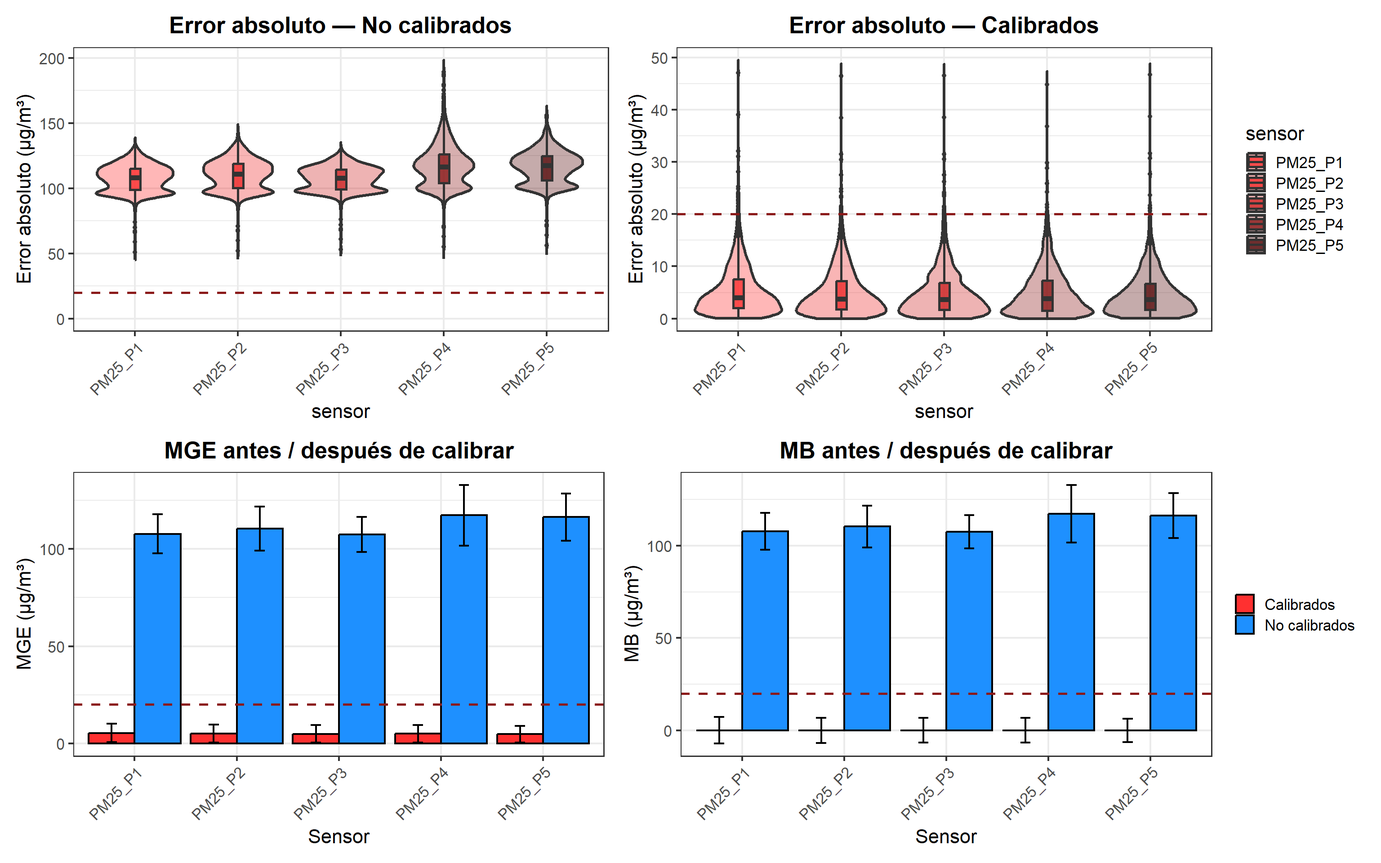
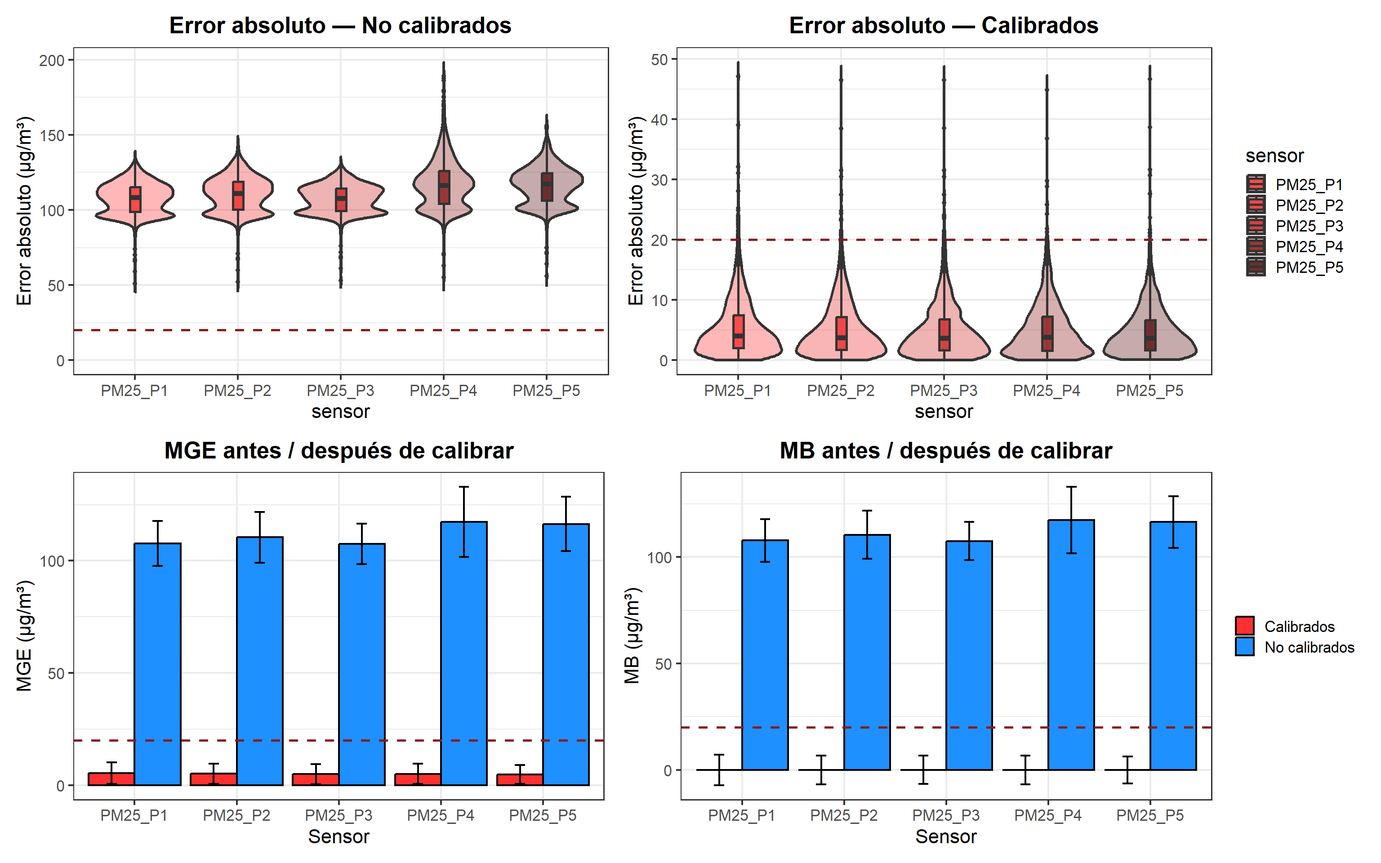
arreglar grafico

diff --git a/index.html b/index.html
@@ -127,7 +127,7 @@ pre > code.sourceCode > span > a:first-child::before { text-decoration: underlin
 
 <section id="sinca" class="level2">
 <h2 class="anchored" data-anchor-id="sinca">SINCA</h2>
-<p>El <strong>Sistema de Información Nacional de Calidad del Aire(SINCA)</strong> presenta con aproximadamente 12 estaciones de monitoreo en la ciudad, lo que limita la determinación espacial de los contaminantes y, por ende, la estimación de la exposición real de la población. <a href="https://sinca.mma.gob.cl/" class="uri">https://sinca.mma.gob.cl/</a>.</p>
+<p>El <strong>Sistema de Información Nacional de Calidad del Aire (SINCA)</strong> presenta aproximadamente 10 estaciones de monitoreo en la ciudad de Santiago de Chile , lo que limita la determinación espacial de los contaminantes y, por ende, la exposición real de la población. <a href="https://sinca.mma.gob.cl/" class="uri">https://sinca.mma.gob.cl/</a>.</p>
 </section>
 <section id="sensores-de-bajo-costo" class="level2">
 <h2 class="anchored" data-anchor-id="sensores-de-bajo-costo">Sensores de bajo costo</h2>
@@ -229,14 +229,7 @@ pre > code.sourceCode > span > a:first-child::before { text-decoration: underlin
 <span id="cb1-83"><a href="#cb1-83" aria-hidden="true" tabindex="-1"></a>    )</span>
 <span id="cb1-84"><a href="#cb1-84" aria-hidden="true" tabindex="-1"></a>  ) <span class="sc">+</span></span>
 <span id="cb1-85"><a href="#cb1-85" aria-hidden="true" tabindex="-1"></a>  <span class="fu">theme_bw</span>() <span class="sc">+</span></span>
-<span id="cb1-86"><a href="#cb1-86" aria-hidden="true" tabindex="-1"></a>  <span class="fu">theme</span>(</span>
-<span id="cb1-87"><a href="#cb1-87" aria-hidden="true" tabindex="-1"></a>    <span class="at">legend.position =</span> <span class="st">"right"</span>,</span>
-<span id="cb1-88"><a href="#cb1-88" aria-hidden="true" tabindex="-1"></a>    <span class="at">plot.title =</span> <span class="fu">element_text</span>(<span class="at">hjust =</span> <span class="fl">0.5</span>, <span class="at">face =</span> <span class="st">"bold"</span>),</span>
-<span id="cb1-89"><a href="#cb1-89" aria-hidden="true" tabindex="-1"></a>    <span class="at">strip.background =</span> <span class="fu">element_rect</span>(<span class="at">fill =</span> <span class="st">"grey90"</span>, <span class="at">color =</span> <span class="cn">NA</span>),</span>
-<span id="cb1-90"><a href="#cb1-90" aria-hidden="true" tabindex="-1"></a>    <span class="at">strip.text =</span> <span class="fu">element_text</span>(<span class="at">face =</span> <span class="st">"bold"</span>),</span>
-<span id="cb1-91"><a href="#cb1-91" aria-hidden="true" tabindex="-1"></a>    <span class="at">axis.text.x =</span> <span class="fu">element_text</span>(<span class="at">angle =</span> <span class="dv">0</span>, <span class="at">hjust =</span> <span class="fl">0.5</span>)</span>
-<span id="cb1-92"><a href="#cb1-92" aria-hidden="true" tabindex="-1"></a>  ) <span class="sc">+</span></span>
-<span id="cb1-93"><a href="#cb1-93" aria-hidden="true" tabindex="-1"></a>  <span class="fu">transition_reveal</span>(<span class="at">along =</span> hour)</span></code><button title="Copiar al portapapeles" class="code-copy-button"><i class="bi"></i></button></pre></div>
+<span id="cb1-86"><a href="#cb1-86" aria-hidden="true" tabindex="-1"></a>  <span class="fu">theme</span>(<span class="at">legend.position =</span> <span class="st">"right"</span>)</span></code><button title="Copiar al portapapeles" class="code-copy-button"><i class="bi"></i></button></pre></div>
 </details>
 </div>
 <div class="cell">
@@ -252,7 +245,7 @@ pre > code.sourceCode > span > a:first-child::before { text-decoration: underlin
 </div>
 </div>
 </div>
-<p>Se muestra que existe un defase entre los valores de concentración de los sensores de bajo costo (P1, P2, P3, P4, P5) en compración con las concentraciones de PM<sub>2.5</sub> del SINCA</p>
+<p>Se muestra que existe un defase entre los valores de concentración de los sensores de bajo costo (P1, P2, P3, P4, P5) en compración con las concentraciones de PM<sub>2.5</sub> del SINCA.</p>
 </section>
 </section>
 <section id="calibración-de-los-sensores-plantower" class="level2">
@@ -300,7 +293,7 @@ pre > code.sourceCode > span > a:first-child::before { text-decoration: underlin
 </section>
 <section id="análisis-de-errores" class="level2">
 <h2 class="anchored" data-anchor-id="análisis-de-errores">Análisis de errores</h2>
-<p>Para determinar la efectividad de la calibracion de los sensores de bajo costo se realiza un analisis de errores. en primer lugar, se evalua la distribucion de los errore absolutos para cada observacion; seguido de un analisis de las metricas de los errores (MB y MGE). En este caso se verifico que despues de la calibracion los valores del error estuvieran por debajo de 20 µg/m³.</p>
+<p>Para determinar la efectividad de la calibracion de los sensores de bajo costo se realiza un análisis de errores. En primer lugar, se evalua la distribución de los errore absolutos para cada observación; seguido de un analisis de las metricas de los errores (MB y MGE). En este caso se verificó que despues de la calibración los valores del error estuvieran por debajo de 20 µg/m³.</p>
 <div class="cell">
 <details class="code-fold">
 <summary>Mostrar código</summary>
@@ -319,59 +312,73 @@ pre > code.sourceCode > span > a:first-child::before { text-decoration: underlin
 <span id="cb4-13"><a href="#cb4-13" aria-hidden="true" tabindex="-1"></a></span>
 <span id="cb4-14"><a href="#cb4-14" aria-hidden="true" tabindex="-1"></a><span class="co"># Grafico de violín para errores no calibrados ----------------------------</span></span>
 <span id="cb4-15"><a href="#cb4-15" aria-hidden="true" tabindex="-1"></a></span>
-<span id="cb4-16"><a href="#cb4-16" aria-hidden="true" tabindex="-1"></a>violin_nocalibrado <span class="ot">&lt;-</span> <span class="fu">ggplot</span>(errores_no_calibrado ,</span>
-<span id="cb4-17"><a href="#cb4-17" aria-hidden="true" tabindex="-1"></a>                      <span class="fu">aes</span>(<span class="at">x =</span> sensor, <span class="at">y =</span> error_abs, <span class="at">fill =</span> sensor)) <span class="sc">+</span></span>
-<span id="cb4-18"><a href="#cb4-18" aria-hidden="true" tabindex="-1"></a>  <span class="fu">geom_violin</span>(<span class="at">trim =</span> <span class="cn">FALSE</span>, <span class="at">alpha =</span> <span class="fl">0.35</span>, <span class="at">linewidth =</span> <span class="fl">1.1</span>) <span class="sc">+</span> <span class="co"># No recorta extremo y especifica la transparencia</span></span>
-<span id="cb4-19"><a href="#cb4-19" aria-hidden="true" tabindex="-1"></a>  <span class="fu">geom_boxplot</span>(<span class="at">width =</span> <span class="fl">0.10</span>, <span class="at">alpha =</span> <span class="fl">0.8</span>, <span class="at">linewidth =</span> <span class="fl">1.0</span>, <span class="co">#Añadir box plot dentro del violin</span></span>
-<span id="cb4-20"><a href="#cb4-20" aria-hidden="true" tabindex="-1"></a>               <span class="at">outlier.size =</span> <span class="fl">1.5</span>) <span class="sc">+</span>   <span class="co"># Especifica el tamaño de los puntos outlier</span></span>
-<span id="cb4-21"><a href="#cb4-21" aria-hidden="true" tabindex="-1"></a>  <span class="fu">geom_hline</span>(<span class="at">yintercept =</span> <span class="dv">20</span>, <span class="at">linetype =</span> <span class="st">"dashed"</span>,  <span class="co"># Añade una linea horizontal en y=20</span></span>
-<span id="cb4-22"><a href="#cb4-22" aria-hidden="true" tabindex="-1"></a>             <span class="at">color =</span> <span class="st">"firebrick4"</span>, <span class="at">linewidth =</span> <span class="dv">1</span>) <span class="sc">+</span> <span class="co"># Selecciona el color de la linea</span></span>
-<span id="cb4-23"><a href="#cb4-23" aria-hidden="true" tabindex="-1"></a>  <span class="fu">scale_y_continuous</span>(<span class="at">limits =</span> <span class="fu">c</span>(<span class="dv">0</span>, <span class="cn">NA</span>)) <span class="sc">+</span>       <span class="co"># Establece que el valor minimo es 0 y sin max(Na)</span></span>
-<span id="cb4-24"><a href="#cb4-24" aria-hidden="true" tabindex="-1"></a>  <span class="fu">scale_fill_manual</span>(<span class="at">values =</span> <span class="fu">c</span>(                 <span class="co"># Seleccion de colores para cada grafico de violin</span></span>
-<span id="cb4-25"><a href="#cb4-25" aria-hidden="true" tabindex="-1"></a>    <span class="st">"PM25_P1"</span> <span class="ot">=</span> <span class="st">"firebrick1"</span>,</span>
-<span id="cb4-26"><a href="#cb4-26" aria-hidden="true" tabindex="-1"></a>    <span class="st">"PM25_P2"</span> <span class="ot">=</span> <span class="st">"firebrick2"</span>,</span>
-<span id="cb4-27"><a href="#cb4-27" aria-hidden="true" tabindex="-1"></a>    <span class="st">"PM25_P3"</span> <span class="ot">=</span> <span class="st">"firebrick3"</span>,</span>
-<span id="cb4-28"><a href="#cb4-28" aria-hidden="true" tabindex="-1"></a>    <span class="st">"PM25_P4"</span> <span class="ot">=</span> <span class="st">"firebrick4"</span>,</span>
-<span id="cb4-29"><a href="#cb4-29" aria-hidden="true" tabindex="-1"></a>    <span class="st">"PM25_P5"</span> <span class="ot">=</span> <span class="st">"#5A0F0F"</span></span>
-<span id="cb4-30"><a href="#cb4-30" aria-hidden="true" tabindex="-1"></a>  )) <span class="sc">+</span></span>
-<span id="cb4-31"><a href="#cb4-31" aria-hidden="true" tabindex="-1"></a>  <span class="fu">theme_bw</span>(<span class="at">base_size =</span> <span class="dv">16</span>) <span class="sc">+</span>                 <span class="co"># Tema blanco y negro con tamño de texto 16</span></span>
-<span id="cb4-32"><a href="#cb4-32" aria-hidden="true" tabindex="-1"></a>  <span class="fu">theme</span>(</span>
-<span id="cb4-33"><a href="#cb4-33" aria-hidden="true" tabindex="-1"></a>    <span class="at">plot.title =</span> <span class="fu">element_text</span>(<span class="at">face =</span> <span class="st">"bold"</span>, <span class="at">hjust =</span> <span class="fl">0.5</span>), <span class="co">#Título en negrita y centrado</span></span>
-<span id="cb4-34"><a href="#cb4-34" aria-hidden="true" tabindex="-1"></a>    <span class="at">axis.text.x =</span> <span class="fu">element_text</span>(<span class="at">angle =</span> <span class="dv">45</span>, <span class="at">hjust =</span> <span class="dv">1</span>) <span class="co"># Inclina el eje para evitar solapamientos</span></span>
-<span id="cb4-35"><a href="#cb4-35" aria-hidden="true" tabindex="-1"></a>  ) <span class="sc">+</span></span>
-<span id="cb4-36"><a href="#cb4-36" aria-hidden="true" tabindex="-1"></a>  <span class="fu">labs</span>(<span class="at">title =</span> <span class="st">"Error absoluto — No calibrados"</span>,</span>
-<span id="cb4-37"><a href="#cb4-37" aria-hidden="true" tabindex="-1"></a>       <span class="at">x =</span> <span class="st">"sensor"</span>, <span class="at">y =</span> <span class="st">"Error absoluto (µg/m³)"</span>,</span>
-<span id="cb4-38"><a href="#cb4-38" aria-hidden="true" tabindex="-1"></a>       <span class="at">fill =</span> <span class="st">"sensor"</span>)</span>
-<span id="cb4-39"><a href="#cb4-39" aria-hidden="true" tabindex="-1"></a></span>
-<span id="cb4-40"><a href="#cb4-40" aria-hidden="true" tabindex="-1"></a><span class="co"># Grafico de violín para errores calibrados ----------------------------</span></span>
-<span id="cb4-41"><a href="#cb4-41" aria-hidden="true" tabindex="-1"></a><span class="co"># Seleccionar datos -------------------------------------------------------</span></span>
-<span id="cb4-42"><a href="#cb4-42" aria-hidden="true" tabindex="-1"></a>errores_cal <span class="ot">&lt;-</span> errores_completo <span class="sc">%&gt;%</span> <span class="fu">filter</span>(Clasificacion <span class="sc">==</span> <span class="st">"Calibrados"</span>)</span>
-<span id="cb4-43"><a href="#cb4-43" aria-hidden="true" tabindex="-1"></a></span>
-<span id="cb4-44"><a href="#cb4-44" aria-hidden="true" tabindex="-1"></a><span class="co"># Grafico de violín para errores no calibrados ----------------------------</span></span>
-<span id="cb4-45"><a href="#cb4-45" aria-hidden="true" tabindex="-1"></a></span>
-<span id="cb4-46"><a href="#cb4-46" aria-hidden="true" tabindex="-1"></a>violin_calibrado <span class="ot">&lt;-</span> <span class="fu">ggplot</span>(errores_cal,</span>
-<span id="cb4-47"><a href="#cb4-47" aria-hidden="true" tabindex="-1"></a>                               <span class="fu">aes</span>(<span class="at">x =</span> sensor, <span class="at">y =</span> error_abs, <span class="at">fill =</span> sensor)) <span class="sc">+</span></span>
-<span id="cb4-48"><a href="#cb4-48" aria-hidden="true" tabindex="-1"></a>  <span class="fu">geom_violin</span>(<span class="at">trim =</span> <span class="cn">FALSE</span>, <span class="at">alpha =</span> <span class="fl">0.35</span>, <span class="at">linewidth =</span> <span class="fl">1.1</span>) <span class="sc">+</span> <span class="co"># No recorta extremo y especifica la transparencia</span></span>
-<span id="cb4-49"><a href="#cb4-49" aria-hidden="true" tabindex="-1"></a>  <span class="fu">geom_boxplot</span>(<span class="at">width =</span> <span class="fl">0.10</span>, <span class="at">alpha =</span> <span class="fl">0.8</span>, <span class="at">linewidth =</span> <span class="fl">1.0</span>, <span class="co">#Añadir box plot dentro del violin</span></span>
-<span id="cb4-50"><a href="#cb4-50" aria-hidden="true" tabindex="-1"></a>               <span class="at">outlier.size =</span> <span class="fl">1.5</span>) <span class="sc">+</span>   <span class="co"># Especifica el tamaño de los puntos outlier</span></span>
-<span id="cb4-51"><a href="#cb4-51" aria-hidden="true" tabindex="-1"></a>  <span class="fu">geom_hline</span>(<span class="at">yintercept =</span> <span class="dv">20</span>, <span class="at">linetype =</span> <span class="st">"dashed"</span>,  <span class="co"># Añade una linea horizontal en y=20</span></span>
-<span id="cb4-52"><a href="#cb4-52" aria-hidden="true" tabindex="-1"></a>             <span class="at">color =</span> <span class="st">"firebrick4"</span>, <span class="at">linewidth =</span> <span class="dv">1</span>) <span class="sc">+</span> <span class="co"># Selecciona el color de la linea</span></span>
-<span id="cb4-53"><a href="#cb4-53" aria-hidden="true" tabindex="-1"></a>  <span class="fu">scale_y_continuous</span>(<span class="at">limits =</span> <span class="fu">c</span>(<span class="dv">0</span>, <span class="cn">NA</span>)) <span class="sc">+</span>       <span class="co"># Establece que el valor minimo es 0 y sin max(Na)</span></span>
-<span id="cb4-54"><a href="#cb4-54" aria-hidden="true" tabindex="-1"></a>  <span class="fu">scale_fill_manual</span>(<span class="at">values =</span> <span class="fu">c</span>(                 <span class="co"># Seleccion de colores para cada grafico de violin</span></span>
-<span id="cb4-55"><a href="#cb4-55" aria-hidden="true" tabindex="-1"></a>    <span class="st">"PM25_P1"</span> <span class="ot">=</span> <span class="st">"firebrick1"</span>,</span>
-<span id="cb4-56"><a href="#cb4-56" aria-hidden="true" tabindex="-1"></a>    <span class="st">"PM25_P2"</span> <span class="ot">=</span> <span class="st">"firebrick2"</span>,</span>
-<span id="cb4-57"><a href="#cb4-57" aria-hidden="true" tabindex="-1"></a>    <span class="st">"PM25_P3"</span> <span class="ot">=</span> <span class="st">"firebrick3"</span>,</span>
-<span id="cb4-58"><a href="#cb4-58" aria-hidden="true" tabindex="-1"></a>    <span class="st">"PM25_P4"</span> <span class="ot">=</span> <span class="st">"firebrick4"</span>,</span>
-<span id="cb4-59"><a href="#cb4-59" aria-hidden="true" tabindex="-1"></a>    <span class="st">"PM25_P5"</span> <span class="ot">=</span> <span class="st">"#5A0F0F"</span></span>
-<span id="cb4-60"><a href="#cb4-60" aria-hidden="true" tabindex="-1"></a>  )) <span class="sc">+</span></span>
-<span id="cb4-61"><a href="#cb4-61" aria-hidden="true" tabindex="-1"></a>  <span class="fu">theme_bw</span>(<span class="at">base_size =</span> <span class="dv">16</span>) <span class="sc">+</span>                 <span class="co"># Tema blanco y negro con tamño de texto 16</span></span>
-<span id="cb4-62"><a href="#cb4-62" aria-hidden="true" tabindex="-1"></a>  <span class="fu">theme</span>(</span>
-<span id="cb4-63"><a href="#cb4-63" aria-hidden="true" tabindex="-1"></a>    <span class="at">plot.title =</span> <span class="fu">element_text</span>(<span class="at">face =</span> <span class="st">"bold"</span>, <span class="at">hjust =</span> <span class="fl">0.5</span>), <span class="co">#Título en negrita y centrado</span></span>
-<span id="cb4-64"><a href="#cb4-64" aria-hidden="true" tabindex="-1"></a>    <span class="at">axis.text.x =</span> <span class="fu">element_text</span>(<span class="at">angle =</span> <span class="dv">45</span>, <span class="at">hjust =</span> <span class="dv">1</span>) <span class="co"># Inclina el eje para evitar solapamientos</span></span>
-<span id="cb4-65"><a href="#cb4-65" aria-hidden="true" tabindex="-1"></a>  ) <span class="sc">+</span></span>
-<span id="cb4-66"><a href="#cb4-66" aria-hidden="true" tabindex="-1"></a>  <span class="fu">labs</span>(<span class="at">title =</span> <span class="st">"Error absoluto — Calibrados"</span>,</span>
-<span id="cb4-67"><a href="#cb4-67" aria-hidden="true" tabindex="-1"></a>       <span class="at">x =</span> <span class="st">"sensor"</span>, <span class="at">y =</span> <span class="st">"Error absoluto (µg/m³)"</span>,</span>
-<span id="cb4-68"><a href="#cb4-68" aria-hidden="true" tabindex="-1"></a>       <span class="at">fill =</span> <span class="st">"sensor"</span>)</span></code><button title="Copiar al portapapeles" class="code-copy-button"><i class="bi"></i></button></pre></div>
+<span id="cb4-16"><a href="#cb4-16" aria-hidden="true" tabindex="-1"></a>violin_nocalibrado <span class="ot">&lt;-</span> <span class="fu">ggplot</span>(errores_no_calibrado , <span class="fu">aes</span>(<span class="at">x =</span> sensor, <span class="at">y =</span> error_abs, <span class="at">fill =</span> sensor)) <span class="sc">+</span></span>
+<span id="cb4-17"><a href="#cb4-17" aria-hidden="true" tabindex="-1"></a>  <span class="fu">geom_violin</span>(<span class="at">trim =</span> <span class="cn">FALSE</span>,</span>
+<span id="cb4-18"><a href="#cb4-18" aria-hidden="true" tabindex="-1"></a>              <span class="at">alpha =</span> <span class="fl">0.35</span>,</span>
+<span id="cb4-19"><a href="#cb4-19" aria-hidden="true" tabindex="-1"></a>              <span class="at">linewidth =</span> <span class="fl">1.1</span>) <span class="sc">+</span> <span class="co"># No recorta extremo y especifica la transparencia</span></span>
+<span id="cb4-20"><a href="#cb4-20" aria-hidden="true" tabindex="-1"></a>  <span class="fu">geom_boxplot</span>(     <span class="co">#Añadir box plot dentro del violin</span></span>
+<span id="cb4-21"><a href="#cb4-21" aria-hidden="true" tabindex="-1"></a>    <span class="at">width =</span> <span class="fl">0.10</span>,</span>
+<span id="cb4-22"><a href="#cb4-22" aria-hidden="true" tabindex="-1"></a>    <span class="at">alpha =</span> <span class="fl">0.8</span>,</span>
+<span id="cb4-23"><a href="#cb4-23" aria-hidden="true" tabindex="-1"></a>    <span class="at">linewidth =</span> <span class="fl">1.0</span>,</span>
+<span id="cb4-24"><a href="#cb4-24" aria-hidden="true" tabindex="-1"></a>    <span class="at">outlier.size =</span> <span class="fl">1.5</span><span class="co"># Especifica el tamaño de los puntos outlier</span></span>
+<span id="cb4-25"><a href="#cb4-25" aria-hidden="true" tabindex="-1"></a>  ) <span class="sc">+</span>   </span>
+<span id="cb4-26"><a href="#cb4-26" aria-hidden="true" tabindex="-1"></a>  <span class="fu">geom_hline</span>(</span>
+<span id="cb4-27"><a href="#cb4-27" aria-hidden="true" tabindex="-1"></a>    <span class="at">yintercept =</span> <span class="dv">20</span>,</span>
+<span id="cb4-28"><a href="#cb4-28" aria-hidden="true" tabindex="-1"></a>    <span class="at">linetype =</span> <span class="st">"dashed"</span>,</span>
+<span id="cb4-29"><a href="#cb4-29" aria-hidden="true" tabindex="-1"></a>    <span class="co"># Añade una linea horizontal en y=20</span></span>
+<span id="cb4-30"><a href="#cb4-30" aria-hidden="true" tabindex="-1"></a>    <span class="at">color =</span> <span class="st">"firebrick4"</span>,<span class="co"># Selecciona el color de la linea</span></span>
+<span id="cb4-31"><a href="#cb4-31" aria-hidden="true" tabindex="-1"></a>    <span class="at">linewidth =</span> <span class="dv">1</span></span>
+<span id="cb4-32"><a href="#cb4-32" aria-hidden="true" tabindex="-1"></a>  ) <span class="sc">+</span> </span>
+<span id="cb4-33"><a href="#cb4-33" aria-hidden="true" tabindex="-1"></a>  <span class="fu">scale_y_continuous</span>(<span class="at">limits =</span> <span class="fu">c</span>(<span class="dv">0</span>, <span class="cn">NA</span>)) <span class="sc">+</span>       <span class="co"># Establece que el valor minimo es 0 y sin max(Na)</span></span>
+<span id="cb4-34"><a href="#cb4-34" aria-hidden="true" tabindex="-1"></a>  <span class="fu">scale_fill_manual</span>(</span>
+<span id="cb4-35"><a href="#cb4-35" aria-hidden="true" tabindex="-1"></a>    <span class="at">values =</span> <span class="fu">c</span>(</span>
+<span id="cb4-36"><a href="#cb4-36" aria-hidden="true" tabindex="-1"></a>      <span class="co"># Seleccion de colores para cada grafico de violin</span></span>
+<span id="cb4-37"><a href="#cb4-37" aria-hidden="true" tabindex="-1"></a>      <span class="st">"PM25_P1"</span> <span class="ot">=</span> <span class="st">"firebrick1"</span>,</span>
+<span id="cb4-38"><a href="#cb4-38" aria-hidden="true" tabindex="-1"></a>      <span class="st">"PM25_P2"</span> <span class="ot">=</span> <span class="st">"firebrick2"</span>,</span>
+<span id="cb4-39"><a href="#cb4-39" aria-hidden="true" tabindex="-1"></a>      <span class="st">"PM25_P3"</span> <span class="ot">=</span> <span class="st">"firebrick3"</span>,</span>
+<span id="cb4-40"><a href="#cb4-40" aria-hidden="true" tabindex="-1"></a>      <span class="st">"PM25_P4"</span> <span class="ot">=</span> <span class="st">"firebrick4"</span>,</span>
+<span id="cb4-41"><a href="#cb4-41" aria-hidden="true" tabindex="-1"></a>      <span class="st">"PM25_P5"</span> <span class="ot">=</span> <span class="st">"#5A0F0F"</span></span>
+<span id="cb4-42"><a href="#cb4-42" aria-hidden="true" tabindex="-1"></a>    )</span>
+<span id="cb4-43"><a href="#cb4-43" aria-hidden="true" tabindex="-1"></a>  ) <span class="sc">+</span></span>
+<span id="cb4-44"><a href="#cb4-44" aria-hidden="true" tabindex="-1"></a>  <span class="fu">theme_bw</span>(<span class="at">base_size =</span> <span class="dv">16</span>) <span class="sc">+</span>        <span class="co"># Tema blanco y negro con tamño de texto 16</span></span>
+<span id="cb4-45"><a href="#cb4-45" aria-hidden="true" tabindex="-1"></a>  <span class="fu">theme</span>(</span>
+<span id="cb4-46"><a href="#cb4-46" aria-hidden="true" tabindex="-1"></a>    <span class="at">plot.title =</span> <span class="fu">element_text</span>(<span class="at">face =</span> <span class="st">"bold"</span>, <span class="at">hjust =</span> <span class="fl">0.5</span>), <span class="co">#Título en negrita</span></span>
+<span id="cb4-47"><a href="#cb4-47" aria-hidden="true" tabindex="-1"></a>  ) <span class="sc">+</span></span>
+<span id="cb4-48"><a href="#cb4-48" aria-hidden="true" tabindex="-1"></a>  <span class="fu">labs</span>(<span class="at">title =</span> <span class="st">"Error absoluto — No calibrados"</span>,</span>
+<span id="cb4-49"><a href="#cb4-49" aria-hidden="true" tabindex="-1"></a>       <span class="at">x =</span> <span class="st">"sensor"</span>, <span class="at">y =</span> <span class="st">"Error absoluto (µg/m³)"</span>,</span>
+<span id="cb4-50"><a href="#cb4-50" aria-hidden="true" tabindex="-1"></a>       <span class="at">fill =</span> <span class="st">"sensor"</span>)</span>
+<span id="cb4-51"><a href="#cb4-51" aria-hidden="true" tabindex="-1"></a></span>
+<span id="cb4-52"><a href="#cb4-52" aria-hidden="true" tabindex="-1"></a><span class="co"># Grafico de violín para errores calibrados ----------------------------</span></span>
+<span id="cb4-53"><a href="#cb4-53" aria-hidden="true" tabindex="-1"></a><span class="co"># Seleccionar datos -------------------------------------------------------</span></span>
+<span id="cb4-54"><a href="#cb4-54" aria-hidden="true" tabindex="-1"></a>errores_cal <span class="ot">&lt;-</span> errores_completo <span class="sc">%&gt;%</span> <span class="fu">filter</span>(Clasificacion <span class="sc">==</span> <span class="st">"Calibrados"</span>)</span>
+<span id="cb4-55"><a href="#cb4-55" aria-hidden="true" tabindex="-1"></a></span>
+<span id="cb4-56"><a href="#cb4-56" aria-hidden="true" tabindex="-1"></a><span class="co"># Grafico de violín para errores no calibrados ----------------------------</span></span>
+<span id="cb4-57"><a href="#cb4-57" aria-hidden="true" tabindex="-1"></a></span>
+<span id="cb4-58"><a href="#cb4-58" aria-hidden="true" tabindex="-1"></a>violin_calibrado <span class="ot">&lt;-</span> <span class="fu">ggplot</span>(errores_cal,</span>
+<span id="cb4-59"><a href="#cb4-59" aria-hidden="true" tabindex="-1"></a>                               <span class="fu">aes</span>(<span class="at">x =</span> sensor, <span class="at">y =</span> error_abs, <span class="at">fill =</span> sensor)) <span class="sc">+</span></span>
+<span id="cb4-60"><a href="#cb4-60" aria-hidden="true" tabindex="-1"></a>  <span class="fu">geom_violin</span>(<span class="at">trim =</span> <span class="cn">FALSE</span>, <span class="at">alpha =</span> <span class="fl">0.35</span>, <span class="at">linewidth =</span> <span class="fl">1.1</span>) <span class="sc">+</span> <span class="co"># No recorta extremo y especifica la transparencia</span></span>
+<span id="cb4-61"><a href="#cb4-61" aria-hidden="true" tabindex="-1"></a>  <span class="fu">geom_boxplot</span>(<span class="at">width =</span> <span class="fl">0.10</span>, <span class="at">alpha =</span> <span class="fl">0.8</span>, <span class="at">linewidth =</span> <span class="fl">1.0</span>, <span class="co">#Añadir box plot dentro del violin</span></span>
+<span id="cb4-62"><a href="#cb4-62" aria-hidden="true" tabindex="-1"></a>               <span class="at">outlier.size =</span> <span class="fl">1.5</span>) <span class="sc">+</span>   <span class="co"># Especifica el tamaño de los puntos outlier</span></span>
+<span id="cb4-63"><a href="#cb4-63" aria-hidden="true" tabindex="-1"></a>  <span class="fu">geom_hline</span>(<span class="at">yintercept =</span> <span class="dv">20</span>, <span class="at">linetype =</span> <span class="st">"dashed"</span>,  <span class="co"># Añade una linea horizontal en y=20</span></span>
+<span id="cb4-64"><a href="#cb4-64" aria-hidden="true" tabindex="-1"></a>             <span class="at">color =</span> <span class="st">"firebrick4"</span>, <span class="at">linewidth =</span> <span class="dv">1</span>) <span class="sc">+</span> <span class="co"># Selecciona el color de la linea</span></span>
+<span id="cb4-65"><a href="#cb4-65" aria-hidden="true" tabindex="-1"></a>  <span class="fu">scale_y_continuous</span>(<span class="at">limits =</span> <span class="fu">c</span>(<span class="dv">0</span>, <span class="cn">NA</span>)) <span class="sc">+</span>       <span class="co"># Establece que el valor minimo es 0 y sin max(Na)</span></span>
+<span id="cb4-66"><a href="#cb4-66" aria-hidden="true" tabindex="-1"></a>  <span class="fu">scale_fill_manual</span>(<span class="at">values =</span> <span class="fu">c</span>(                 <span class="co"># Seleccion de colores para cada grafico de violin</span></span>
+<span id="cb4-67"><a href="#cb4-67" aria-hidden="true" tabindex="-1"></a>    <span class="st">"PM25_P1"</span> <span class="ot">=</span> <span class="st">"firebrick1"</span>,</span>
+<span id="cb4-68"><a href="#cb4-68" aria-hidden="true" tabindex="-1"></a>    <span class="st">"PM25_P2"</span> <span class="ot">=</span> <span class="st">"firebrick2"</span>,</span>
+<span id="cb4-69"><a href="#cb4-69" aria-hidden="true" tabindex="-1"></a>    <span class="st">"PM25_P3"</span> <span class="ot">=</span> <span class="st">"firebrick3"</span>,</span>
+<span id="cb4-70"><a href="#cb4-70" aria-hidden="true" tabindex="-1"></a>    <span class="st">"PM25_P4"</span> <span class="ot">=</span> <span class="st">"firebrick4"</span>,</span>
+<span id="cb4-71"><a href="#cb4-71" aria-hidden="true" tabindex="-1"></a>    <span class="st">"PM25_P5"</span> <span class="ot">=</span> <span class="st">"#5A0F0F"</span></span>
+<span id="cb4-72"><a href="#cb4-72" aria-hidden="true" tabindex="-1"></a>  )) <span class="sc">+</span></span>
+<span id="cb4-73"><a href="#cb4-73" aria-hidden="true" tabindex="-1"></a>   <span class="fu">theme_bw</span>(<span class="at">base_size =</span> <span class="dv">16</span>) <span class="sc">+</span>  <span class="co"># Tema blanco y negro con tamaño de texto 16</span></span>
+<span id="cb4-74"><a href="#cb4-74" aria-hidden="true" tabindex="-1"></a>  <span class="fu">theme</span>(</span>
+<span id="cb4-75"><a href="#cb4-75" aria-hidden="true" tabindex="-1"></a>    <span class="at">plot.title =</span> <span class="fu">element_text</span>(<span class="at">face =</span> <span class="st">"bold"</span>, <span class="at">hjust =</span> <span class="fl">0.5</span>) <span class="co"># Título en negrita y </span></span>
+<span id="cb4-76"><a href="#cb4-76" aria-hidden="true" tabindex="-1"></a>  ) <span class="sc">+</span></span>
+<span id="cb4-77"><a href="#cb4-77" aria-hidden="true" tabindex="-1"></a>  <span class="fu">labs</span>(</span>
+<span id="cb4-78"><a href="#cb4-78" aria-hidden="true" tabindex="-1"></a>    <span class="at">title =</span> <span class="st">"Error absoluto — Calibrados"</span>,</span>
+<span id="cb4-79"><a href="#cb4-79" aria-hidden="true" tabindex="-1"></a>    <span class="at">x =</span> <span class="st">"sensor"</span>,</span>
+<span id="cb4-80"><a href="#cb4-80" aria-hidden="true" tabindex="-1"></a>    <span class="at">y =</span> <span class="st">"Error absoluto (µg/m³)"</span>,</span>
+<span id="cb4-81"><a href="#cb4-81" aria-hidden="true" tabindex="-1"></a>    <span class="at">fill =</span> <span class="st">"sensor"</span></span>
+<span id="cb4-82"><a href="#cb4-82" aria-hidden="true" tabindex="-1"></a>  )</span></code><button title="Copiar al portapapeles" class="code-copy-button"><i class="bi"></i></button></pre></div>
 </details>
 </div>
 <div class="cell">
@@ -400,38 +407,36 @@ pre > code.sourceCode > span > a:first-child::before { text-decoration: underlin
 <span id="cb5-21"><a href="#cb5-21" aria-hidden="true" tabindex="-1"></a>  )) <span class="sc">+</span></span>
 <span id="cb5-22"><a href="#cb5-22" aria-hidden="true" tabindex="-1"></a>  <span class="fu">theme_bw</span>(<span class="at">base_size =</span> <span class="dv">16</span>) <span class="sc">+</span></span>
 <span id="cb5-23"><a href="#cb5-23" aria-hidden="true" tabindex="-1"></a>  <span class="fu">theme</span>(</span>
-<span id="cb5-24"><a href="#cb5-24" aria-hidden="true" tabindex="-1"></a>    <span class="at">plot.title =</span> <span class="fu">element_text</span>(<span class="at">face =</span> <span class="st">"bold"</span>, <span class="at">hjust =</span> <span class="fl">0.5</span>),<span class="co"># Título en negrita y centrado.</span></span>
-<span id="cb5-25"><a href="#cb5-25" aria-hidden="true" tabindex="-1"></a>    <span class="at">axis.text.x =</span> <span class="fu">element_text</span>(<span class="at">angle =</span> <span class="dv">45</span>, <span class="at">hjust =</span> <span class="dv">1</span>),</span>
-<span id="cb5-26"><a href="#cb5-26" aria-hidden="true" tabindex="-1"></a>    <span class="at">legend.title =</span> <span class="fu">element_blank</span>()</span>
-<span id="cb5-27"><a href="#cb5-27" aria-hidden="true" tabindex="-1"></a>  ) <span class="sc">+</span></span>
-<span id="cb5-28"><a href="#cb5-28" aria-hidden="true" tabindex="-1"></a>  <span class="fu">labs</span>(<span class="at">title =</span> <span class="st">"MGE antes / después de calibrar"</span>,</span>
-<span id="cb5-29"><a href="#cb5-29" aria-hidden="true" tabindex="-1"></a>       <span class="at">x =</span> <span class="st">"Sensor"</span>, <span class="at">y =</span> <span class="st">"MGE (µg/m³)"</span>)</span>
-<span id="cb5-30"><a href="#cb5-30" aria-hidden="true" tabindex="-1"></a><span class="co"># Gráfico de barras  MB  ------------------------------------------------</span></span>
+<span id="cb5-24"><a href="#cb5-24" aria-hidden="true" tabindex="-1"></a>    <span class="at">plot.title =</span> <span class="fu">element_text</span>(<span class="at">face =</span> <span class="st">"bold"</span>, <span class="at">hjust =</span> <span class="fl">0.5</span>),<span class="co"># Título en negrita</span></span>
+<span id="cb5-25"><a href="#cb5-25" aria-hidden="true" tabindex="-1"></a>    <span class="at">legend.title =</span> <span class="fu">element_blank</span>()</span>
+<span id="cb5-26"><a href="#cb5-26" aria-hidden="true" tabindex="-1"></a>  ) <span class="sc">+</span></span>
+<span id="cb5-27"><a href="#cb5-27" aria-hidden="true" tabindex="-1"></a>  <span class="fu">labs</span>(<span class="at">title =</span> <span class="st">"MGE antes / después de calibrar"</span>,</span>
+<span id="cb5-28"><a href="#cb5-28" aria-hidden="true" tabindex="-1"></a>       <span class="at">x =</span> <span class="st">"Sensor"</span>, <span class="at">y =</span> <span class="st">"MGE (µg/m³)"</span>)</span>
+<span id="cb5-29"><a href="#cb5-29" aria-hidden="true" tabindex="-1"></a><span class="co"># Gráfico de barras  MB  ------------------------------------------------</span></span>
+<span id="cb5-30"><a href="#cb5-30" aria-hidden="true" tabindex="-1"></a></span>
 <span id="cb5-31"><a href="#cb5-31" aria-hidden="true" tabindex="-1"></a></span>
-<span id="cb5-32"><a href="#cb5-32" aria-hidden="true" tabindex="-1"></a></span>
-<span id="cb5-33"><a href="#cb5-33" aria-hidden="true" tabindex="-1"></a>barras_MB <span class="ot">&lt;-</span> <span class="fu">ggplot</span>(Errores_antes_despues, </span>
-<span id="cb5-34"><a href="#cb5-34" aria-hidden="true" tabindex="-1"></a>               <span class="fu">aes</span>(<span class="at">x =</span> Sensor, <span class="at">y =</span> MB, <span class="at">fill =</span> Clasificación)) <span class="sc">+</span></span>
-<span id="cb5-35"><a href="#cb5-35" aria-hidden="true" tabindex="-1"></a>  <span class="fu">geom_bar</span>(<span class="at">stat =</span> <span class="st">"identity"</span>, <span class="at">color =</span> <span class="st">"black"</span>, <span class="co"># añade un borde negro a cada grafica</span></span>
-<span id="cb5-36"><a href="#cb5-36" aria-hidden="true" tabindex="-1"></a>           <span class="at">position =</span> <span class="fu">position_dodge</span>(<span class="at">width =</span> <span class="fl">0.9</span>)) <span class="sc">+</span></span>
-<span id="cb5-37"><a href="#cb5-37" aria-hidden="true" tabindex="-1"></a>  <span class="fu">geom_errorbar</span>(<span class="fu">aes</span>(<span class="at">ymin =</span> MB <span class="sc">-</span> SD_MB, <span class="at">ymax =</span> MB <span class="sc">+</span> SD_MB),<span class="co"># añade los valores de desviación del error</span></span>
-<span id="cb5-38"><a href="#cb5-38" aria-hidden="true" tabindex="-1"></a>                <span class="at">width =</span> <span class="fl">0.2</span>, <span class="at">linewidth =</span> <span class="fl">0.8</span>,</span>
-<span id="cb5-39"><a href="#cb5-39" aria-hidden="true" tabindex="-1"></a>                <span class="at">position =</span> <span class="fu">position_dodge</span>(<span class="at">width =</span> <span class="fl">0.9</span>)) <span class="sc">+</span></span>
-<span id="cb5-40"><a href="#cb5-40" aria-hidden="true" tabindex="-1"></a>  <span class="fu">geom_hline</span>(<span class="at">yintercept =</span> <span class="dv">20</span>,  <span class="co"># Linea en 20 discontinua </span></span>
-<span id="cb5-41"><a href="#cb5-41" aria-hidden="true" tabindex="-1"></a>             <span class="at">linetype =</span> <span class="st">"dashed"</span>,</span>
-<span id="cb5-42"><a href="#cb5-42" aria-hidden="true" tabindex="-1"></a>             <span class="at">color =</span> <span class="st">"firebrick4"</span>,      </span>
-<span id="cb5-43"><a href="#cb5-43" aria-hidden="true" tabindex="-1"></a>             <span class="at">linewidth =</span> <span class="dv">1</span>) <span class="sc">+</span></span>
-<span id="cb5-44"><a href="#cb5-44" aria-hidden="true" tabindex="-1"></a>  <span class="fu">scale_fill_manual</span>(<span class="at">values =</span> <span class="fu">c</span>(</span>
-<span id="cb5-45"><a href="#cb5-45" aria-hidden="true" tabindex="-1"></a>    <span class="st">"No calibrados"</span> <span class="ot">=</span> <span class="st">"#1E90FF"</span>,</span>
-<span id="cb5-46"><a href="#cb5-46" aria-hidden="true" tabindex="-1"></a>    <span class="st">"Calibrados"</span>    <span class="ot">=</span> <span class="st">"firebrick1"</span></span>
-<span id="cb5-47"><a href="#cb5-47" aria-hidden="true" tabindex="-1"></a>  )) <span class="sc">+</span></span>
-<span id="cb5-48"><a href="#cb5-48" aria-hidden="true" tabindex="-1"></a>  <span class="fu">theme_bw</span>(<span class="at">base_size =</span> <span class="dv">16</span>) <span class="sc">+</span>    <span class="co"># Tema blanco y negro con tamño de texto 16</span></span>
-<span id="cb5-49"><a href="#cb5-49" aria-hidden="true" tabindex="-1"></a>  <span class="fu">theme</span>(</span>
-<span id="cb5-50"><a href="#cb5-50" aria-hidden="true" tabindex="-1"></a>    <span class="at">plot.title =</span> <span class="fu">element_text</span>(<span class="at">face =</span> <span class="st">"bold"</span>, <span class="at">hjust =</span> <span class="fl">0.5</span>),<span class="co"># Título en negrita y centrado.</span></span>
-<span id="cb5-51"><a href="#cb5-51" aria-hidden="true" tabindex="-1"></a>    <span class="at">axis.text.x =</span> <span class="fu">element_text</span>(<span class="at">angle =</span> <span class="dv">45</span>, <span class="at">hjust =</span> <span class="dv">1</span>),</span>
-<span id="cb5-52"><a href="#cb5-52" aria-hidden="true" tabindex="-1"></a>    <span class="at">legend.title =</span> <span class="fu">element_blank</span>()</span>
-<span id="cb5-53"><a href="#cb5-53" aria-hidden="true" tabindex="-1"></a>  ) <span class="sc">+</span></span>
-<span id="cb5-54"><a href="#cb5-54" aria-hidden="true" tabindex="-1"></a>  <span class="fu">labs</span>(<span class="at">title =</span> <span class="st">"MB antes / después de calibrar"</span>,</span>
-<span id="cb5-55"><a href="#cb5-55" aria-hidden="true" tabindex="-1"></a>       <span class="at">x =</span> <span class="st">"Sensor"</span>, <span class="at">y =</span> <span class="st">"MB (µg/m³)"</span>)</span></code><button title="Copiar al portapapeles" class="code-copy-button"><i class="bi"></i></button></pre></div>
+<span id="cb5-32"><a href="#cb5-32" aria-hidden="true" tabindex="-1"></a>barras_MB <span class="ot">&lt;-</span> <span class="fu">ggplot</span>(Errores_antes_despues, </span>
+<span id="cb5-33"><a href="#cb5-33" aria-hidden="true" tabindex="-1"></a>               <span class="fu">aes</span>(<span class="at">x =</span> Sensor, <span class="at">y =</span> MB, <span class="at">fill =</span> Clasificación)) <span class="sc">+</span></span>
+<span id="cb5-34"><a href="#cb5-34" aria-hidden="true" tabindex="-1"></a>  <span class="fu">geom_bar</span>(<span class="at">stat =</span> <span class="st">"identity"</span>, <span class="at">color =</span> <span class="st">"black"</span>, <span class="co"># añade un borde negro a cada grafica</span></span>
+<span id="cb5-35"><a href="#cb5-35" aria-hidden="true" tabindex="-1"></a>           <span class="at">position =</span> <span class="fu">position_dodge</span>(<span class="at">width =</span> <span class="fl">0.9</span>)) <span class="sc">+</span></span>
+<span id="cb5-36"><a href="#cb5-36" aria-hidden="true" tabindex="-1"></a>  <span class="fu">geom_errorbar</span>(<span class="fu">aes</span>(<span class="at">ymin =</span> MB <span class="sc">-</span> SD_MB, <span class="at">ymax =</span> MB <span class="sc">+</span> SD_MB),<span class="co"># añade los valores de desviación del error</span></span>
+<span id="cb5-37"><a href="#cb5-37" aria-hidden="true" tabindex="-1"></a>                <span class="at">width =</span> <span class="fl">0.2</span>, <span class="at">linewidth =</span> <span class="fl">0.8</span>,</span>
+<span id="cb5-38"><a href="#cb5-38" aria-hidden="true" tabindex="-1"></a>                <span class="at">position =</span> <span class="fu">position_dodge</span>(<span class="at">width =</span> <span class="fl">0.9</span>)) <span class="sc">+</span></span>
+<span id="cb5-39"><a href="#cb5-39" aria-hidden="true" tabindex="-1"></a>  <span class="fu">geom_hline</span>(<span class="at">yintercept =</span> <span class="dv">20</span>,  <span class="co"># Linea en 20 discontinua </span></span>
+<span id="cb5-40"><a href="#cb5-40" aria-hidden="true" tabindex="-1"></a>             <span class="at">linetype =</span> <span class="st">"dashed"</span>,</span>
+<span id="cb5-41"><a href="#cb5-41" aria-hidden="true" tabindex="-1"></a>             <span class="at">color =</span> <span class="st">"firebrick4"</span>,      </span>
+<span id="cb5-42"><a href="#cb5-42" aria-hidden="true" tabindex="-1"></a>             <span class="at">linewidth =</span> <span class="dv">1</span>) <span class="sc">+</span></span>
+<span id="cb5-43"><a href="#cb5-43" aria-hidden="true" tabindex="-1"></a>  <span class="fu">scale_fill_manual</span>(<span class="at">values =</span> <span class="fu">c</span>(</span>
+<span id="cb5-44"><a href="#cb5-44" aria-hidden="true" tabindex="-1"></a>    <span class="st">"No calibrados"</span> <span class="ot">=</span> <span class="st">"#1E90FF"</span>,</span>
+<span id="cb5-45"><a href="#cb5-45" aria-hidden="true" tabindex="-1"></a>    <span class="st">"Calibrados"</span>    <span class="ot">=</span> <span class="st">"firebrick1"</span></span>
+<span id="cb5-46"><a href="#cb5-46" aria-hidden="true" tabindex="-1"></a>  )) <span class="sc">+</span></span>
+<span id="cb5-47"><a href="#cb5-47" aria-hidden="true" tabindex="-1"></a>  <span class="fu">theme_bw</span>(<span class="at">base_size =</span> <span class="dv">16</span>) <span class="sc">+</span>    <span class="co"># Tema blanco y negro con tamño de texto 16</span></span>
+<span id="cb5-48"><a href="#cb5-48" aria-hidden="true" tabindex="-1"></a>  <span class="fu">theme</span>(</span>
+<span id="cb5-49"><a href="#cb5-49" aria-hidden="true" tabindex="-1"></a>    <span class="at">plot.title =</span> <span class="fu">element_text</span>(<span class="at">face =</span> <span class="st">"bold"</span>, <span class="at">hjust =</span> <span class="fl">0.5</span>),<span class="co"># Título en negrita </span></span>
+<span id="cb5-50"><a href="#cb5-50" aria-hidden="true" tabindex="-1"></a>    <span class="at">legend.title =</span> <span class="fu">element_blank</span>()</span>
+<span id="cb5-51"><a href="#cb5-51" aria-hidden="true" tabindex="-1"></a>  ) <span class="sc">+</span></span>
+<span id="cb5-52"><a href="#cb5-52" aria-hidden="true" tabindex="-1"></a>  <span class="fu">labs</span>(<span class="at">title =</span> <span class="st">"MB antes / después de calibrar"</span>,</span>
+<span id="cb5-53"><a href="#cb5-53" aria-hidden="true" tabindex="-1"></a>       <span class="at">x =</span> <span class="st">"Sensor"</span>, <span class="at">y =</span> <span class="st">"MB (µg/m³)"</span>)</span></code><button title="Copiar al portapapeles" class="code-copy-button"><i class="bi"></i></button></pre></div>
 </details>
 </div>
 <div class="cell">
